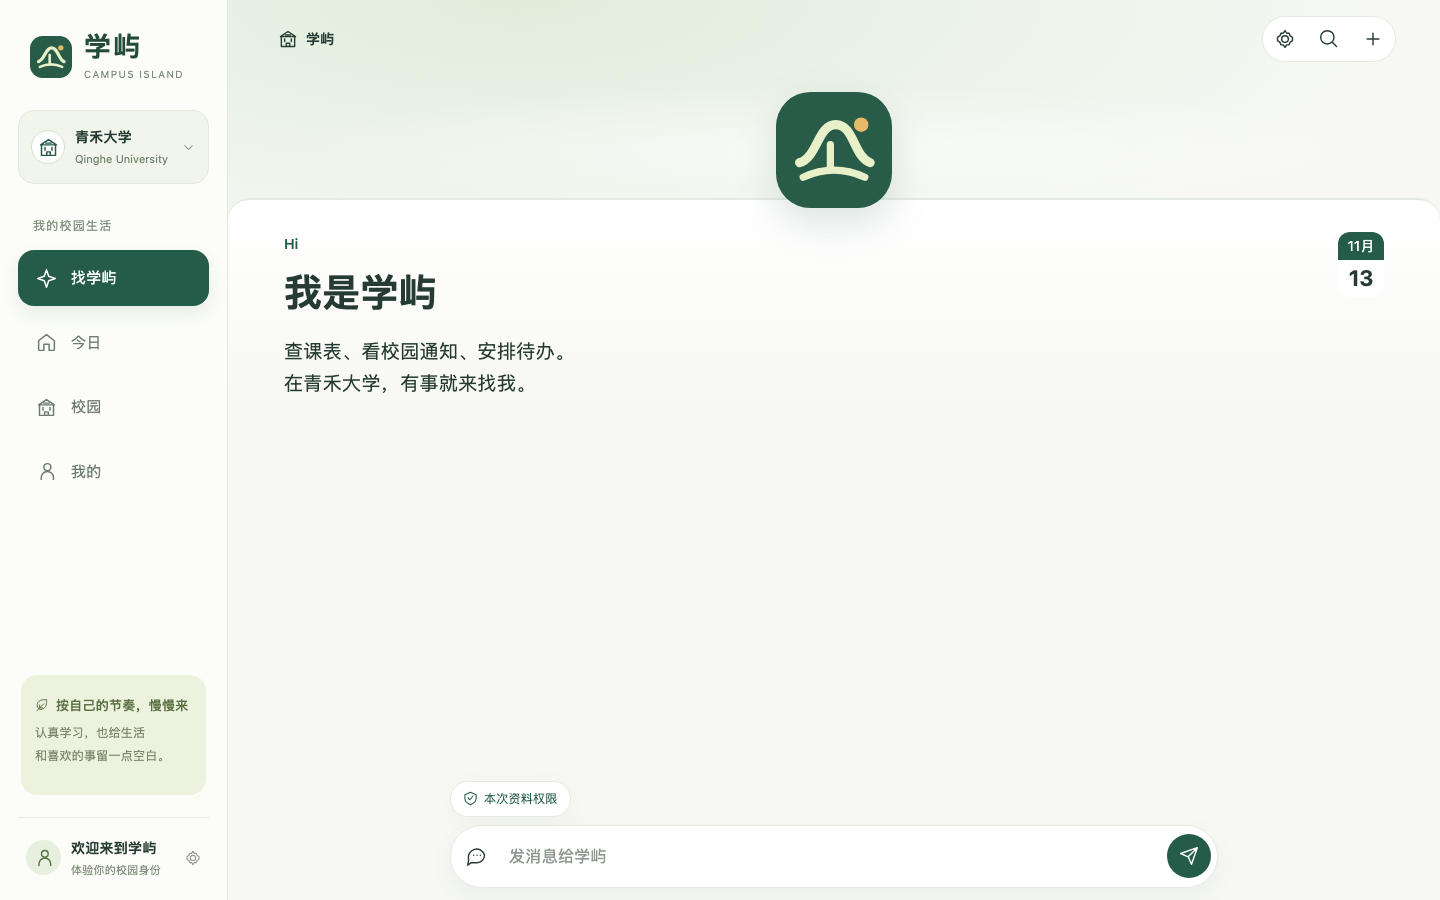
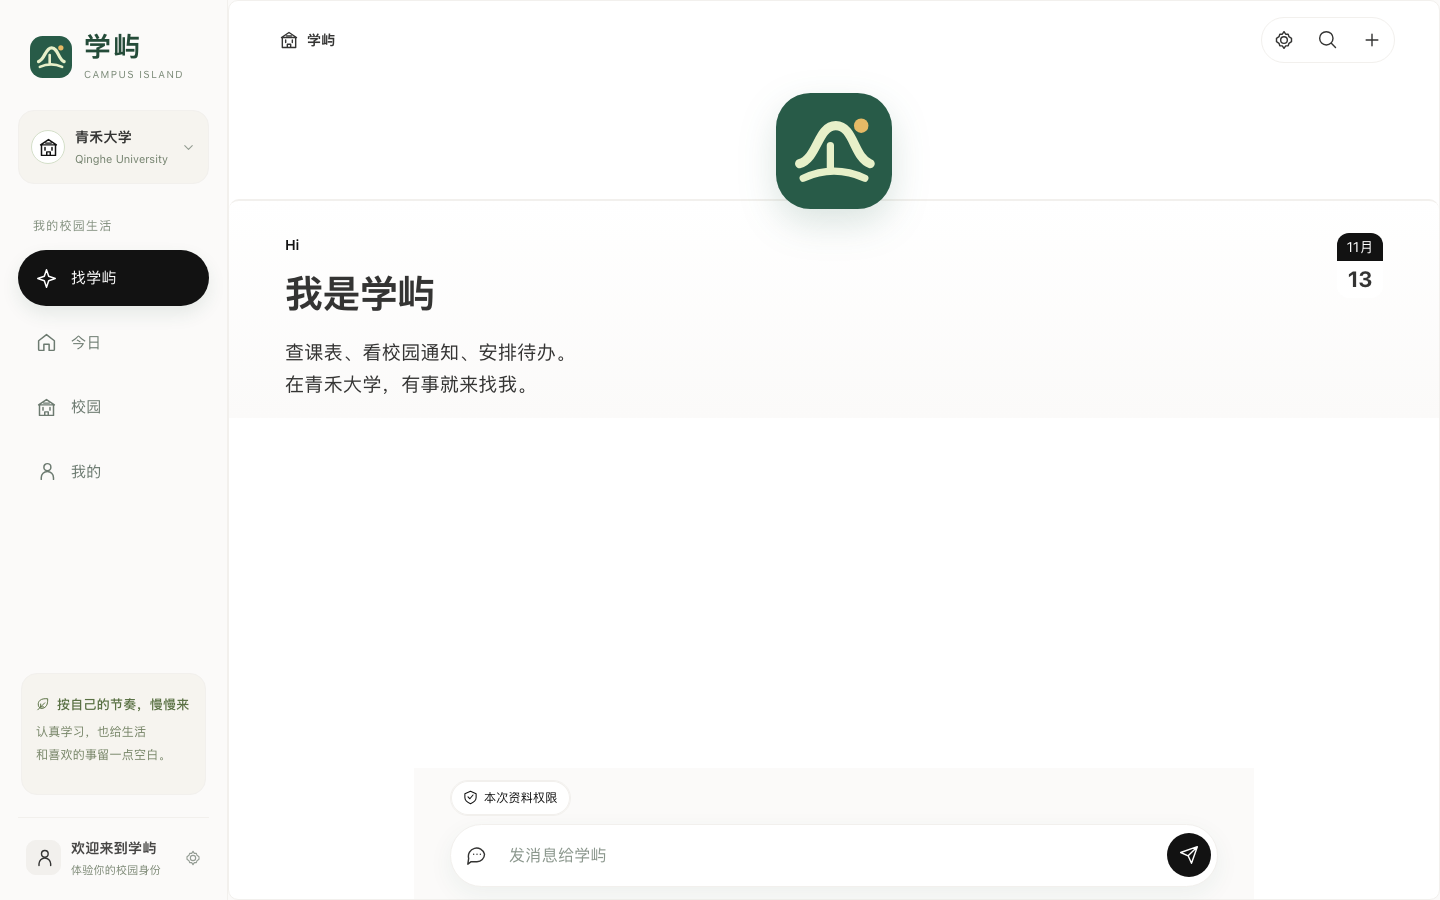
Restyle the frontend after the parchment storybook reference

diff --git a/dist/index.html b/dist/index.html
@@ -9,6 +9,7 @@
     <link rel="icon" type="image/svg+xml" href="assets/favicon.svg" />
     <link rel="preconnect" href="https://fonts.googleapis.com" />
     <link rel="preconnect" href="https://fonts.gstatic.com" crossorigin />
+    <link rel="stylesheet" href="https://fonts.googleapis.com/css2?family=Inter:wght@400;500;600&display=swap" media="print" onload="this.media='all'" />
     <link rel="stylesheet" href="https://fonts.googleapis.com/css2?family=Noto+Sans+SC:wght@400;450;500;550;600;650;700;750;800&display=swap" media="print" onload="this.media='all'" />
     <noscript><link rel="stylesheet" href="https://fonts.googleapis.com/css2?family=Noto+Sans+SC:wght@400;450;500;550;600;650;700;750;800&display=swap" /></noscript>
     <link rel="stylesheet" href="styles.css?v=1.8.20" />
@@ -27,43 +28,50 @@
     <script src="teaching.js?v=1.8.11" defer></script>
     <link rel="stylesheet" href="refresh.css?v=1.7.0" />
     <link rel="stylesheet" href="personal.css?v=1.8.19" />
+    <link rel="stylesheet" href="family.css?v=1.3" />
     <script src="personal.js?v=1.8.14" defer></script>
     <script src="app.js?v=1.8.19" defer></script>
     <style>
-      #splash{position:fixed;inset:0;z-index:9999;display:grid;place-items:center;padding:32px;background:radial-gradient(120% 90% at 50% 28%,#2f7157 0%,#245c49 48%,#183f33 100%);color:#f2f6e9;text-align:center;animation:splash-out .2s 1300ms both}
+      #splash{position:fixed;inset:0;z-index:9999;display:grid;place-items:center;padding:32px;background:#fbfaf9;color:#343433;text-align:center;animation:splash-out .2s 1300ms both}
       #splash.splash-leaving{opacity:0;visibility:hidden;pointer-events:none;animation:none}
-      #splash::after{content:"";position:absolute;inset:0;background:radial-gradient(60% 42% at 50% 80%,#ffffff14,transparent 72%);pointer-events:none}
       .splash-inner{position:relative;max-width:640px}
-      .splash-scene{width:min(600px,86vw);margin:0 auto 18px;opacity:0;animation:splash-rise .45s .05s ease-out forwards}
+      .splash-scene{width:min(600px,86vw);margin:0 auto 16px;opacity:0;animation:splash-rise .45s .05s ease-out forwards}
       .splash-scene svg{display:block;width:100%;height:auto;overflow:visible}
-      .scene-land{fill:#37755e}
-      .scene-rim{fill:none;stroke:#cfe0bd;stroke-width:2.6;stroke-linecap:round;opacity:.5}
-      .scene-wave{fill:none;stroke:#8fb69d;stroke-width:2;stroke-linecap:round;opacity:.45}
-      .scene-wave.wave-2{opacity:.22}
-      .scene-sun{fill:#e6ba66}
+      .scene-land{stroke:#343433;stroke-width:1.6;stroke-linejoin:round}
+      .island-left .scene-land{fill:#ffcd6c}
+      .island-right .scene-land{fill:#64c6ff}
+      .scene-rim{fill:none;stroke:#ffffff;stroke-width:2;stroke-linecap:round;opacity:.9}
+      .scene-wave{fill:none;stroke:#343433;stroke-width:1.4;stroke-linecap:round;opacity:.32}
+      .scene-wave.wave-2{opacity:.15}
+      .scene-sun{fill:#ffcd6c;stroke:#343433;stroke-width:1.6}
       .island-left{animation:island-left .95s cubic-bezier(.2,.7,.25,1) .05s both}
       .island-right{animation:island-right .95s cubic-bezier(.2,.7,.25,1) .12s both}
       @keyframes island-left{0%{opacity:0;transform:translateX(-30px)}35%{opacity:1}100%{opacity:1;transform:none}}
       @keyframes island-right{0%{opacity:0;transform:translateX(30px)}35%{opacity:1}100%{opacity:1;transform:none}}
-      .bridge-line{fill:none;stroke:#e6ba66;stroke-width:1.3;stroke-linecap:round;opacity:0;stroke-dasharray:1;stroke-dashoffset:1;animation:bridge-draw .42s .68s ease-out forwards}
-      @keyframes bridge-draw{to{opacity:.45;stroke-dashoffset:0}}
-      .stone{stroke:#e6ba66;stroke-width:2.6;stroke-linecap:round;opacity:0;animation:splash-fade .22s ease-out forwards}
+      .stone{stroke:#343433;stroke-width:2.4;stroke-linecap:round;opacity:0;animation:splash-fade .22s ease-out forwards}
       .stone-1{animation-delay:.34s}
       .stone-2{animation-delay:.44s}
       .stone-3{animation-delay:.54s}
       .stone-4{animation-delay:.64s}
-      .scene-spark{fill:#f0d79b;opacity:0;animation:splash-fade .3s .9s ease-out forwards}
-      .splash-name{margin:0 0 24px;font-size:12px;letter-spacing:.34em;color:#cfdcc2;opacity:0;animation:splash-rise .32s .18s ease-out forwards}
-      .splash-slogan{margin:0;font-size:clamp(17px,2.2vw,22px);font-weight:500;line-height:1.95;letter-spacing:.02em;color:#f2f6e9}
+      .scene-spark{fill:#ff3e00;stroke:#343433;stroke-width:1;opacity:0;animation:splash-fade .3s .9s ease-out forwards}
+      .bridge-line{fill:none;stroke:#ff3e00;stroke-width:1.6;stroke-linecap:round;opacity:0;stroke-dasharray:1;stroke-dashoffset:1;animation:bridge-draw .42s .68s ease-out forwards}
+      @keyframes bridge-draw{to{opacity:.75;stroke-dashoffset:0}}
+      .confetti{opacity:0;animation:splash-pop .45s ease-out forwards}
+      .c-star{animation-delay:.5s}
+      .c-coin{animation-delay:.66s}
+      .c-heart{animation-delay:.58s}
+      .c-leaf{animation-delay:.72s}
+      .c-spark{animation-delay:.8s}
+      .splash-name{margin:0 0 22px;font-size:12px;letter-spacing:.32em;color:#7e7e7d;opacity:0;animation:splash-rise .32s .18s ease-out forwards}
+      .splash-slogan{margin:0;font-size:clamp(18px,2.2vw,23px);font-weight:600;line-height:1.9;letter-spacing:-.01em;color:#121212}
       .splash-slogan .line{display:block;opacity:0;animation:splash-rise .38s ease-out forwards}
       .splash-slogan .line-1{animation-delay:.26s}
-      .splash-slogan .line-2{margin-top:4px;font-weight:400;font-size:.92em;color:#d5e2c8;animation-delay:.56s}
-      @keyframes splash-pop{from{opacity:0;transform:translateY(10px) scale(.96)}to{opacity:1;transform:none}}
-      @keyframes splash-draw{to{stroke-dashoffset:0}}
+      .splash-slogan .line-2{margin-top:6px;font-weight:400;font-size:.9em;color:#474645;animation-delay:.56s}
+      @keyframes splash-pop{from{opacity:0;transform:translateY(10px) scale(.9)}to{opacity:1;transform:none}}
       @keyframes splash-fade{to{opacity:1}}
       @keyframes splash-rise{from{opacity:0;transform:translateY(8px)}to{opacity:1;transform:none}}
       @keyframes splash-out{from{opacity:1;visibility:visible}to{opacity:0;visibility:hidden}}
-      @media (prefers-reduced-motion:reduce){#splash,.splash-scene,.island-left,.island-right,.stone,.scene-spark,.bridge-line,.splash-name,.splash-slogan,.splash-slogan .line{animation:none!important;opacity:1!important;transition:none!important}.bridge-line{opacity:.45;stroke-dashoffset:0}}
+      @media (prefers-reduced-motion:reduce){#splash,.splash-scene,.island-left,.island-right,.stone,.scene-spark,.bridge-line,.confetti,.splash-name,.splash-slogan,.splash-slogan .line{animation:none!important;opacity:1!important;transition:none!important}.bridge-line{opacity:.75;stroke-dashoffset:0}}
       @media print{#splash{display:none}}
     </style>
     <noscript><style>#splash{display:none}</style></noscript>
@@ -74,17 +82,32 @@
         <div class="splash-scene" aria-hidden="true">
           <svg viewBox="0 0 480 170" xmlns="http://www.w3.org/2000/svg">
             <circle class="scene-sun" cx="404" cy="34" r="9"/>
+            <g class="confetti c-star">
+              <path d="M64 40l4.6 9.2 10.2 1.5-7.4 7.2 1.7 10.1-9.1-4.8-9.1 4.8 1.7-10.1-7.4-7.2 10.2-1.5z" fill="#ffcd6c" stroke="#343433" stroke-width="1.4" stroke-linejoin="round"/>
+            </g>
+            <g class="confetti c-coin">
+              <circle cx="424" cy="132" r="7.5" fill="#ff3e00" stroke="#343433" stroke-width="1.4"/>
+            </g>
+            <g class="confetti c-heart">
+              <path d="M286 34c0-3.6 2.8-6.4 6.2-6.4 2.4 0 4.4 1.4 5.4 3.4 1-2 3-3.4 5.4-3.4 3.4 0 6.2 2.8 6.2 6.4 0 5.6-9.2 10.6-11.6 12-2.4-1.4-11.6-6.4-11.6-12z" fill="#ff58ae" stroke="#343433" stroke-width="1.4" stroke-linejoin="round"/>
+            </g>
+            <g class="confetti c-leaf">
+              <path d="M84 136c6-11 18-15 28-11-1 11-10 19-24 20-2 0-4-4-4-9z" fill="#00c978" stroke="#343433" stroke-width="1.4" stroke-linejoin="round"/>
+            </g>
+            <g class="confetti c-spark">
+              <path d="M340 128l2.6 6.4 6.4 2.6-6.4 2.6-2.6 6.4-2.6-6.4-6.4-2.6 6.4-2.6z" fill="#64c6ff" stroke="#343433" stroke-width="1.2" stroke-linejoin="round"/>
+            </g>
             <g class="island island-left">
               <path class="scene-land" d="M46 118c2-32 27-56 60-56 32 0 57 23 60 56z"/>
-              <path class="scene-rim" d="M55 104c10-19 28-30 51-30 17 0 32 9 42 24"/>
-              <path class="scene-wave" d="M36 126c26-7 64-7 92 0"/>
-              <path class="scene-wave wave-2" d="M26 137c28-6 66-6 94 0"/>
+              <path class="scene-rim" d="M60 102c10-18 27-28 48-28 15 0 29 7 38 20"/>
+              <path class="scene-wave" d="M36 128c26-7 64-7 92 0"/>
+              <path class="scene-wave wave-2" d="M26 139c28-6 66-6 94 0"/>
             </g>
             <g class="island island-right">
               <path class="scene-land" d="M326 118c1-24 20-42 45-42 24 0 43 18 45 42z"/>
-              <path class="scene-rim" d="M333 108c8-14 21-22 38-22 13 0 24 7 31 18"/>
-              <path class="scene-wave" d="M316 126c20-5 48-5 70 0"/>
-              <path class="scene-wave wave-2" d="M308 137c22-5 52-5 76 0"/>
+              <path class="scene-rim" d="M336 106c7-13 19-21 35-21 12 0 23 6 30 17"/>
+              <path class="scene-wave" d="M316 128c20-5 48-5 70 0"/>
+              <path class="scene-wave wave-2" d="M308 139c22-5 52-5 76 0"/>
             </g>
             <path class="bridge-line" pathLength="1" d="M186 111Q253 99 318 105"/>
             <path class="stone stone-1" d="M186 112l13-3"/>

diff --git a/dist/family.css b/dist/family.css
@@ -1,0 +1,242 @@
+/* Family 风格层：奶油纸面、墨线描边、扁平填色、Inter 排版。最后加载，覆盖学屿原有森林绿主题。 */
+:root {
+  color-scheme: light;
+  --fam-cream: #fbfaf9;
+  --fam-stone: #f2f0ed;
+  --fam-sand: #f6f4ef;
+  --fam-ink: #121212;
+  --fam-heading: #343433;
+  --fam-body: #474645;
+  --fam-muted: #7e7e7d;
+  --fam-line: #e5d5c3;
+  --fam-orange: #ff3e00;
+  --fam-blue: #0086fc;
+  --fam-sky: #64c6ff;
+  --fam-green: #00c978;
+  --fam-yellow: #ffcd6c;
+  --fam-pink: #ff58ae;
+
+  /* 把原主题变量映射到 Family 的纸面与墨色 */
+  --green: #121212;
+  --green-dark: #000000;
+  --green-light: #f2f0ed;
+  --lime: #ffcd6c;
+  --ink: #343433;
+  --muted: #7e7e7d;
+  --line: #f2f0ed;
+  --bg: #fbfaf9;
+  --white: #ffffff;
+  --shadow: inset 0 0 0 1px #f2f0ed;
+  --radius: 10px;
+  --coral: #ff3e00;
+  --lilac: #9f4fff;
+}
+
+body {
+  background: var(--fam-cream);
+  color: var(--fam-body);
+  font-family: 'Inter', 'Noto Sans SC', -apple-system, BlinkMacSystemFont, 'PingFang SC', 'Microsoft YaHei', sans-serif;
+  -webkit-font-smoothing: antialiased;
+}
+
+h1, h2, h3, .greeting h1, .page-heading h1, .personal-greeting h1, .campus-agent h1 {
+  color: var(--fam-heading);
+  letter-spacing: -0.022em;
+  font-weight: 600;
+}
+
+/* 侧栏与顶栏：纸面，靠发丝线分隔 */
+.sidebar,
+.topbar,
+.mobile-nav,
+.mobile-drawer {
+  background: var(--fam-cream);
+  border-color: var(--fam-stone);
+}
+.sidebar { border-right: 1px solid var(--fam-stone); }
+.topbar { border-bottom: 1px solid var(--fam-stone); }
+
+/* 所有卡片：白纸 + 1px inset 发丝线，禁止投影 */
+.card,
+.personal-card,
+.notice-card,
+.event-card,
+.quick-grid,
+.personal-shortcuts > div > button,
+.profile-action,
+.campus-agent,
+.teach-card,
+.personal-campus-card,
+.personal-campus-links button,
+.widget-card,
+.widget-shell,
+.panel,
+.stat-card {
+  background: #ffffff;
+  border: 1px solid var(--fam-stone) !important;
+  border-radius: 10px !important;
+  box-shadow: none !important;
+}
+
+/* 按钮：墨黑药丸 + 沙色药丸，无渐变无阴影 */
+.primary-btn,
+.full-btn {
+  background: var(--fam-ink) !important;
+  border: 1px solid var(--fam-ink) !important;
+  border-radius: 9999px !important;
+  color: #ffffff !important;
+  box-shadow: none !important;
+}
+.primary-btn:hover,
+.full-btn:hover { background: #000000 !important; }
+.secondary-btn {
+  background: var(--fam-sand) !important;
+  border: 1px solid transparent !important;
+  border-radius: 9999px !important;
+  color: var(--fam-ink) !important;
+  box-shadow: none !important;
+}
+.secondary-btn:hover { background: var(--fam-stone) !important; }
+
+/* 文本链接使用 ember orange；列表强调用 link blue */
+.text-link { color: var(--fam-orange); }
+.text-link:hover { color: #d63300; }
+a { color: var(--fam-blue); }
+
+/* 标签、徽章、状态：纸面底 + 发丝线 */
+.demo-pill,
+.personal-campus-tag,
+.tag,
+.badge,
+.teach-status-pill,
+.personal-count {
+  background: var(--fam-stone);
+  border: 1px solid var(--fam-stone);
+  border-radius: 6px;
+  color: var(--fam-muted);
+}
+.status-pill,
+.demo-pill { letter-spacing: .06em; }
+
+/* 导航选中项：墨黑药丸 */
+.sidebar-nav button.active,
+.mobile-nav button.active,
+.sidebar nav button.active {
+  background: var(--fam-ink);
+  color: #ffffff;
+  border-radius: 9999px;
+}
+
+/* 搜索框与输入：石色底、发丝线、无阴影 */
+.search-trigger,
+.form-input,
+input,
+textarea,
+select {
+  background: var(--fam-sand);
+  border: 1px solid var(--fam-stone);
+  border-radius: 10px;
+  box-shadow: none;
+}
+.form-input:focus,
+input:focus,
+textarea:focus { border-color: var(--fam-heading); outline: 2px solid #34343322; }
+
+/* 移除遗留渐变与彩色投影，保持扁平纸面 */
+[class*="gradient"] { background-image: none !important; }
+.modal { border-radius: 10px !important; box-shadow: 0 0 0 1px var(--fam-stone), 0 24px 60px #12121214 !important; background: #ffffff; }
+.modal-overlay { background: #34343333; backdrop-filter: none; }
+
+/* 导航图标与次要文字统一墨色系 */
+.breadcrumb, .topbar-date, .demo-pill, .eyebrow { color: var(--fam-muted); }
+.breadcrumb b { color: var(--fam-heading); }
+
+/* 头像与圆形图标保持纸面质感 */
+.avatar, .quick-icon, .personal-orb { box-shadow: none; border: 1px solid var(--fam-stone); }
+
+/* 清除残留的森林绿底纹，统一到石色纸面 */
+.campus-card,
+.sidebar-note,
+.quick-grid,
+.personal-shortcuts > div > button,
+.personal-campus-links button,
+.login-top,
+.search-trigger,
+.chip,
+.tab,
+.segmented button {
+  background: var(--fam-sand);
+  border: 1px solid var(--fam-stone);
+  color: var(--fam-heading);
+  box-shadow: none;
+}
+.quick-icon,
+.avatar,
+.quick-item .quick-icon,
+.profile .avatar {
+  background: var(--fam-stone) !important;
+  border: 1px solid var(--fam-stone);
+  color: var(--fam-heading) !important;
+  border-radius: 10px;
+}
+.quick-item { color: var(--fam-body); }
+.quick-item:hover { color: var(--fam-ink); }
+.profile { border-color: var(--fam-stone); }
+
+/* 标题与图标统一墨色 */
+.personal-greeting h1,
+.greeting h1,
+.page-heading h1,
+.heading h1,
+.campus-agent h1,
+.personal-card h2,
+.personal-shortcuts h2 {
+  color: var(--fam-heading) !important;
+}
+.personal-card h2 > .icon,
+.section-title > .icon,
+.quick-icon .icon,
+.personal-course > .icon,
+.personal-empty > .icon, .personal-empty > .icon,
+.text-link .icon { color: var(--fam-heading); }
+
+/* 链接与强调：ember orange */
+.personal-hero-arrow, .personal-source { color: var(--fam-orange); }
+
+/* 让白卡之间的间距更松弛，接近故事书排版 */
+.personal-today-grid { gap: 24px; }
+
+/* 大色块：统一为石色纸面，插图块改为墨黑 */
+.profile-hero,
+.teach-hero,
+.hero,
+.quote-card,
+.teach-sample,
+.personal-hero {
+  background: var(--fam-sand) !important;
+  border: 1px solid var(--fam-stone) !important;
+  border-radius: 10px !important;
+  box-shadow: none !important;
+}
+.profile-hero h2,
+.teach-hero h2,
+.hero h2,
+.quote-card p { color: var(--fam-heading) !important; }
+.profile-hero p,
+.teach-hero p,
+.teach-hero-label,
+.hero p { color: var(--fam-body) !important; }
+
+.teach-art-video { background: var(--fam-ink) !important; color: #ffffff !important; border: 0; }
+.teach-art-spark { color: var(--fam-orange) !important; }
+
+/* 选中态下划线改为墨色 */
+.teach-tabs button.active:after,
+.notice-tab.active:after,
+.workspace-tabs button.active:after { background: var(--fam-ink) !important; }
+.teach-tabs button.active,
+.notice-tab.active,
+.workspace-tabs button.active { color: var(--fam-ink) !important; }
+
+/* 预算卡等深色面板统一为墨黑 */
+.teach-budget-card { background: var(--fam-ink) !important; }

diff --git a/README.md b/README.md
@@ -8,6 +8,10 @@
 
 [界面预览](#界面预览) · [快速开始](#本地运行) · [示例任务](#可以怎么问) · [架构与目录](#架构与目录) · [数据与隐私](#数据与隐私) · [开发与验证](#开发与验证) · [版权与许可](#版权与许可)
 
+## 视觉风格
+
+界面走「奶油纸面 + 墨线」的故事书方向（参考 Family 风格）：米白纸面 `#fbfaf9` 打底，卡片是纯白加 1px inset 发丝线而不是投影；主按钮是墨黑药丸，次按钮是沙色药丸；正文用 Inter，标题收紧字距；彩色只留给插画与少数强调——ember 橙 `#ff3e00` 承担链接与「加入 / 查看」这类动作，蓝色 `#0086fc` 用于列表强调。启动封面也沿用同一套语言：奶油底、炭笔描边、黄蓝两座小岛、emoji 色的星星/爱心/硬币散落四周。
+
 ## 界面预览
 
 <p align="center">
